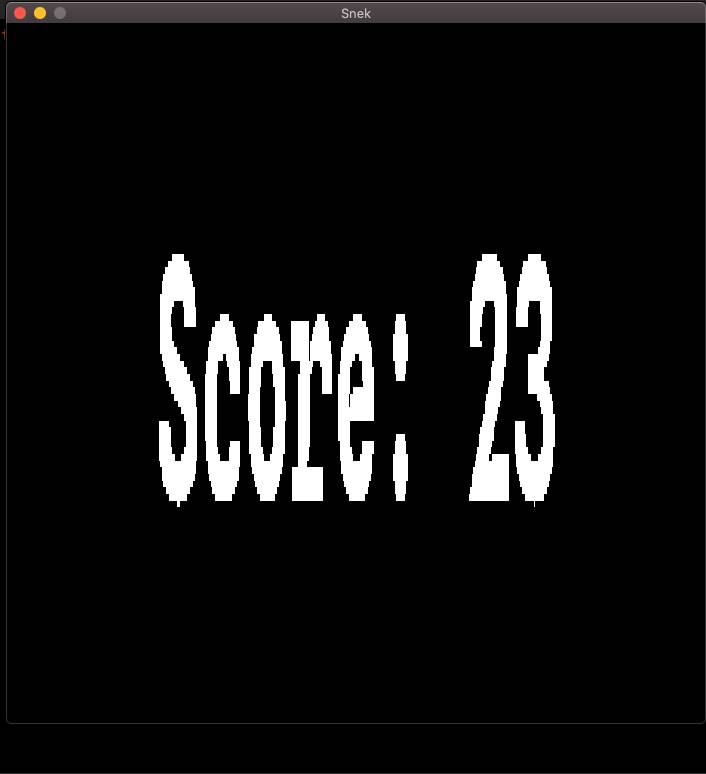
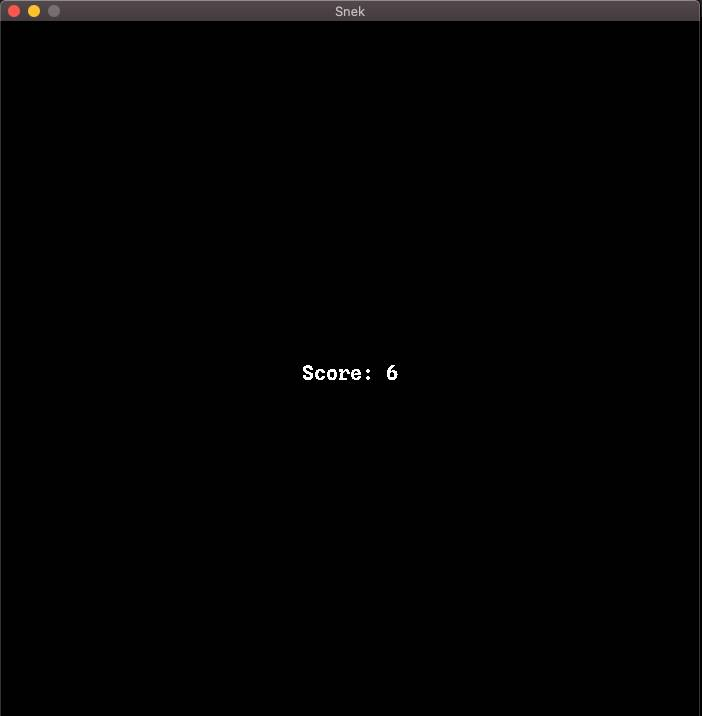
fix text rendering

diff --git a/main.go b/main.go
@@ -46,7 +46,7 @@ func run() error {
 	}
 	defer ttf.Quit()
 
-	font, err := ttf.OpenFont("res/fonts/SplineSansMonoBold.ttf", 50)
+	font, err := ttf.OpenFont("res/fonts/SplineSansMonoBold.ttf", 20)
 	if err != nil {
 		return fmt.Errorf("could not open font: %v", err)
 	}
@@ -108,12 +108,11 @@ func run() error {
 	renderer.SetDrawColor(0, 0, 0, 255)
 	renderer.Clear()
 
-	var textSize int32 = 400
 	r := &sdl.Rect{
-		(winWidth / 2) - (textSize / 2),
-		(winHeight / 2) - (textSize / 2),
-		textSize,
-		textSize,
+		(winWidth / 2) - (fontSurface.W / 2),
+		(winHeight / 2) - (fontSurface.H / 2),
+		fontSurface.W,
+		fontSurface.H,
 	}
 
 	renderer.Copy(texture, nil, r)
